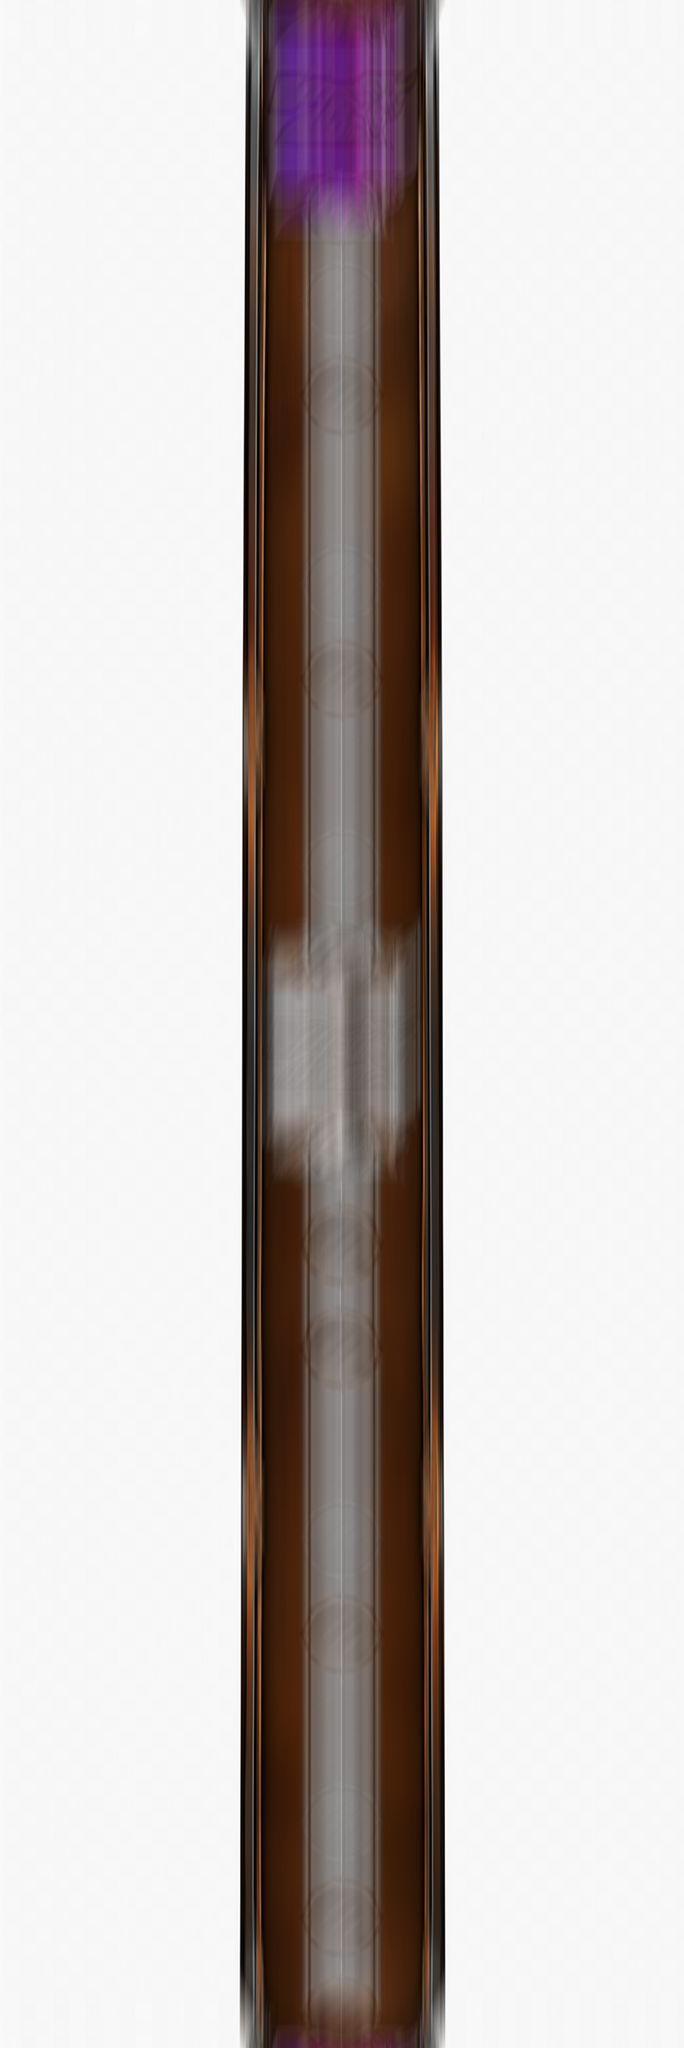
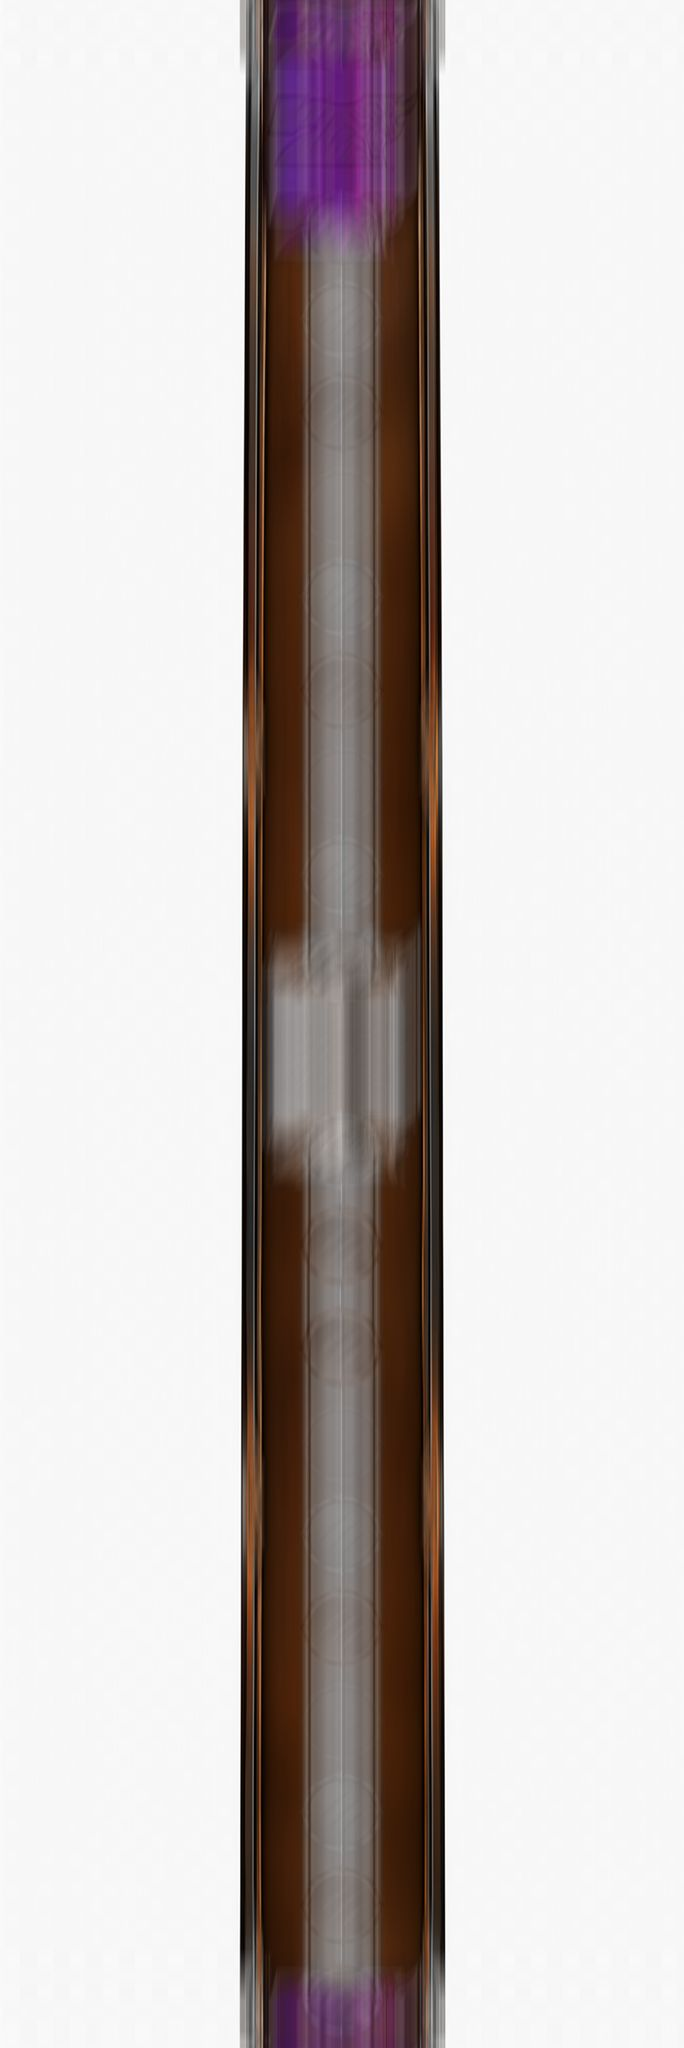
TORAMI RUSH v6: 左リールのつなぎ目でコインと7が重なるのを修正（リール帯を3Dモデルの1周に合わせて並べ直し）
Claude-Session: https://claude.ai/code/session_01CfEbAdSr1Zeg74JTK1dqK1

diff --git a/torecacorp/tora-rush-v6/index.html b/torecacorp/tora-rush-v6/index.html
@@ -521,7 +521,8 @@ const CELL_OFF=0;
 const CELL=c=>(13-CELL_OFF-c)*PITCH; // 旧：等間隔の近似（使わない）
 // コマcを中段に止める角度（リールごと・実測）：3DモデルのUVは1周＝画像の高さの96%（1度あたり0.002667）。
 // リール帯の21コマは画像の約97.7%に並んでいるので、等間隔(360/21)で計算すると端のコマほど枠の中心からずれる（11/28 じぇいさん指摘）
-const GRID=REELSET==="new"?[[.025611,.046566],[.026944,.046454],[.026061,.046538]]:[[.026061,.046538],[.026061,.046538],[.026061,.046538]];
+// new：リール帯を「1周＝画像の96%」の周期で並べ直してあるので（つなぎ目の重なり対策 11/28）、コマは等間隔
+const GRID=REELSET==="new"?[[0.6311-13*0.96/21,0.96/21],[0.6311-13*0.96/21,0.96/21],[0.6311-13*0.96/21,0.96/21]]:[[.026061,.046538],[.026061,.046538],[.026061,.046538]];
 const CELLR=(i,c)=>{c=((c%21)+21)%21;const f=GRID[i][0]+c*GRID[i][1];return(0.6311-f)/0.002667*Math.PI/180};
 // 7の位置：L＝紫0,1／白10,11　C＝紫3／白4　R＝紫1,2／白11,12（縦2連）
 // シングル＝中段1ラインだけ（L・Rは7が中段＋下段）。ダブル＝中段＋右下がり斜めの2ライン（Lは上段＋中段、Rは中段＋下段）
